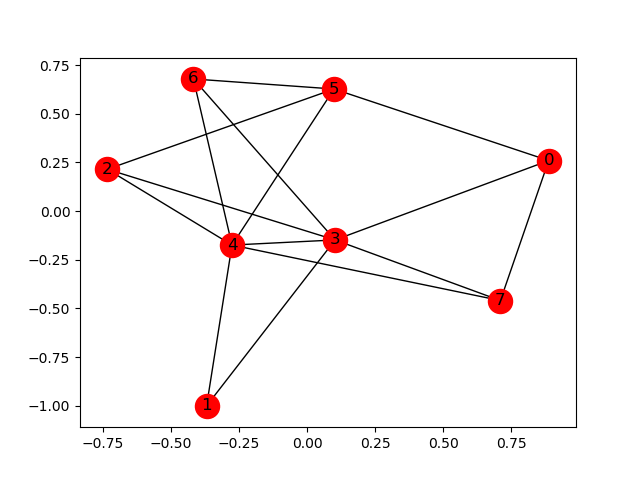
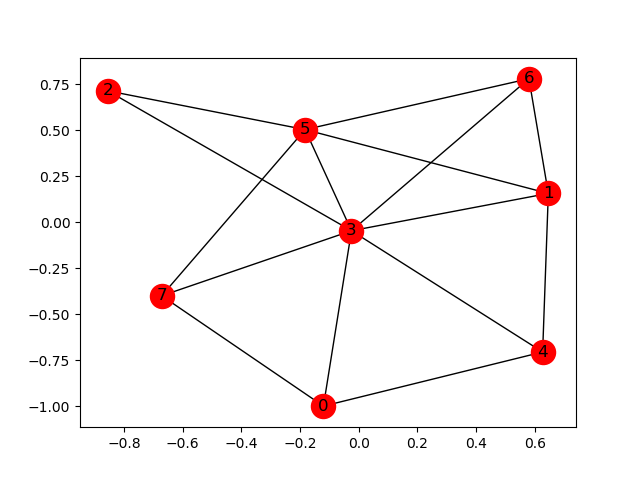
新たなtopo

diff --git a/mininet_topo_8.py b/mininet_topo_8.py
@@ -1,50 +1,39 @@
 from mininet.topo import Topo
 from mininet.net import Mininet
-from mininet.node import CPULimitedHost
+from mininet.node import RemoteController,CPULimitedHost
 from mininet.link import TCLink
+from mininet.util import dumpNodeConnections
+
 
 class MyTopo(Topo):
 
-    def __init__(self,cpu=1,max_queue_size=None,**params):
+    def __init__(self):
 
         # initilaize topology   
-        Topo.__init__(self,**params)
+        Topo.__init__(self)
         
+        edges = [(0, 3), (0, 4), (0, 7), (1, 3), (1, 4), (1, 5), (1, 6), (2, 3), (2, 5), (3, 4), (3, 5), (3, 6), (3, 7), (5, 6), (5, 7)]
+        s = []
         node_num = 8
-        hostConfig = {'cpu':cpu}
-        linkConfig = {'bw':10,'delay':'10ms','loss':0,'max_queue_size':max_queue_size}
+        
+        hostConfig = {'cpu':1}
+        linkConfig = {'bw':10,'delay':'10ms','loss':0,'max_queue_size':None}
         
         # add hosts
         h1 = self.addHost('h1',**hostConfig)
         h2 = self.addHost('h2',**hostConfig)
         
         # add switchs
-        s0 = self.addSwitch('s0')
-        s1 = self.addSwitch('s1')
-        s2 = self.addSwitch('s2')
-        s3 = self.addSwitch('s3')
-        s4 = self.addSwitch('s4')
-        s5 = self.addSwitch('s5')
-        s6 = self.addSwitch('s6')
-        s7 = self.addSwitch('s7')
+        for i in range(node_num):
+            sw = self.addSwitch( 's{}'.format( i + 1 ) )
+            s.append(sw)
             
         # add links
-        self.addLink(h1,s2,**linkConfig)
-        self.addLink(h2,s7,**linkConfig)        
-        self.addLink(s0, s3,**linkConfig)
-        self.addLink(s0, s5,**linkConfig)
-        self.addLink(s0, s7,**linkConfig)
-        self.addLink(s1, s3,**linkConfig)
-        self.addLink(s1, s4,**linkConfig)
-        self.addLink(s2, s3,**linkConfig)
-        self.addLink(s2, s4,**linkConfig)
-        self.addLink(s2, s5,**linkConfig)
-        self.addLink(s3, s4,**linkConfig)
-        self.addLink(s3, s6,**linkConfig)
-        self.addLink(s3, s7,**linkConfig)
-        self.addLink(s4, s5,**linkConfig)
-        self.addLink(s4, s6,**linkConfig)
-        self.addLink(s4, s7,**linkConfig)
-        self.addLink(s5, s6,**linkConfig)
+        
+        self.addLink(h2,s[4],**linkConfig)       
+        
+        for v,w in edges:
+            self.addLink(s[v],s[w],**linkConfig)
+        
 
 topos = { 'mytopo': ( lambda: MyTopo() ) }
